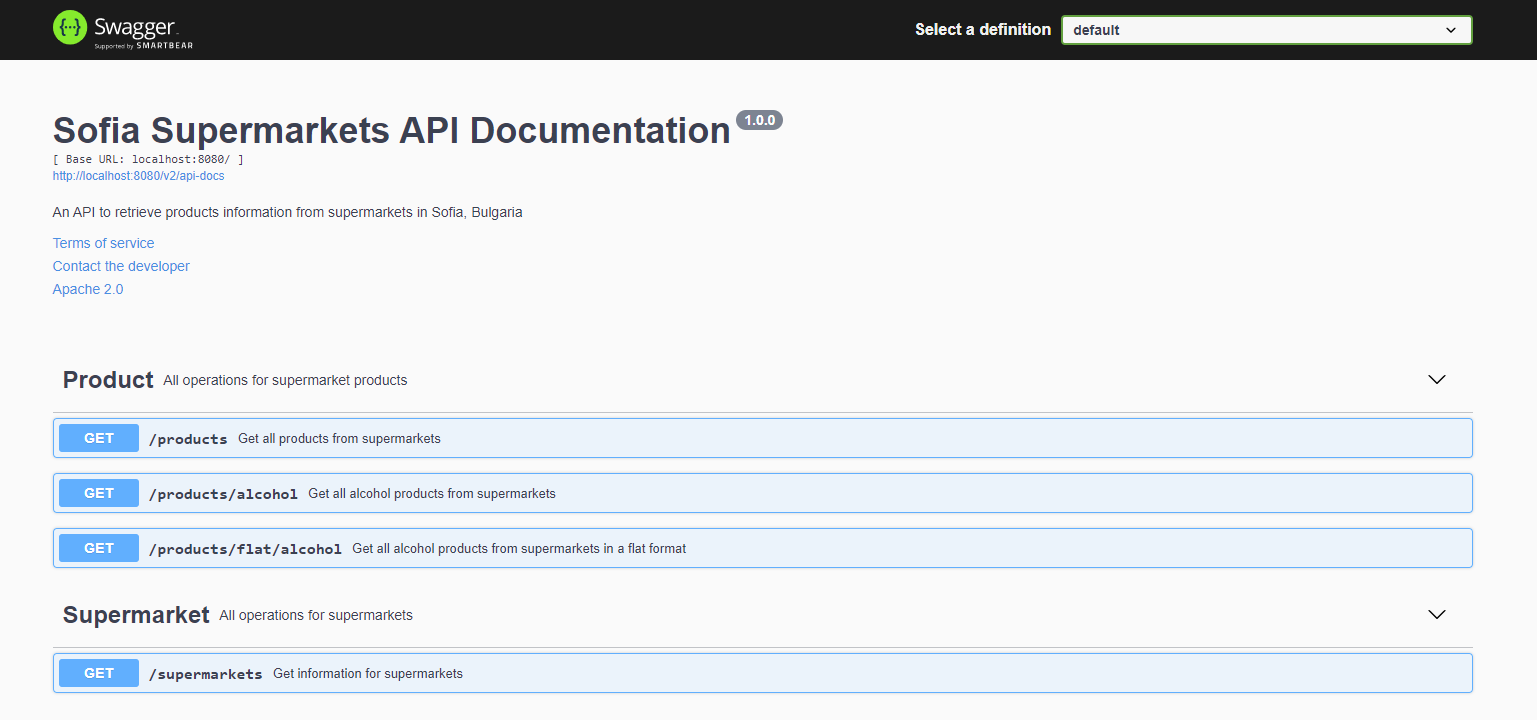
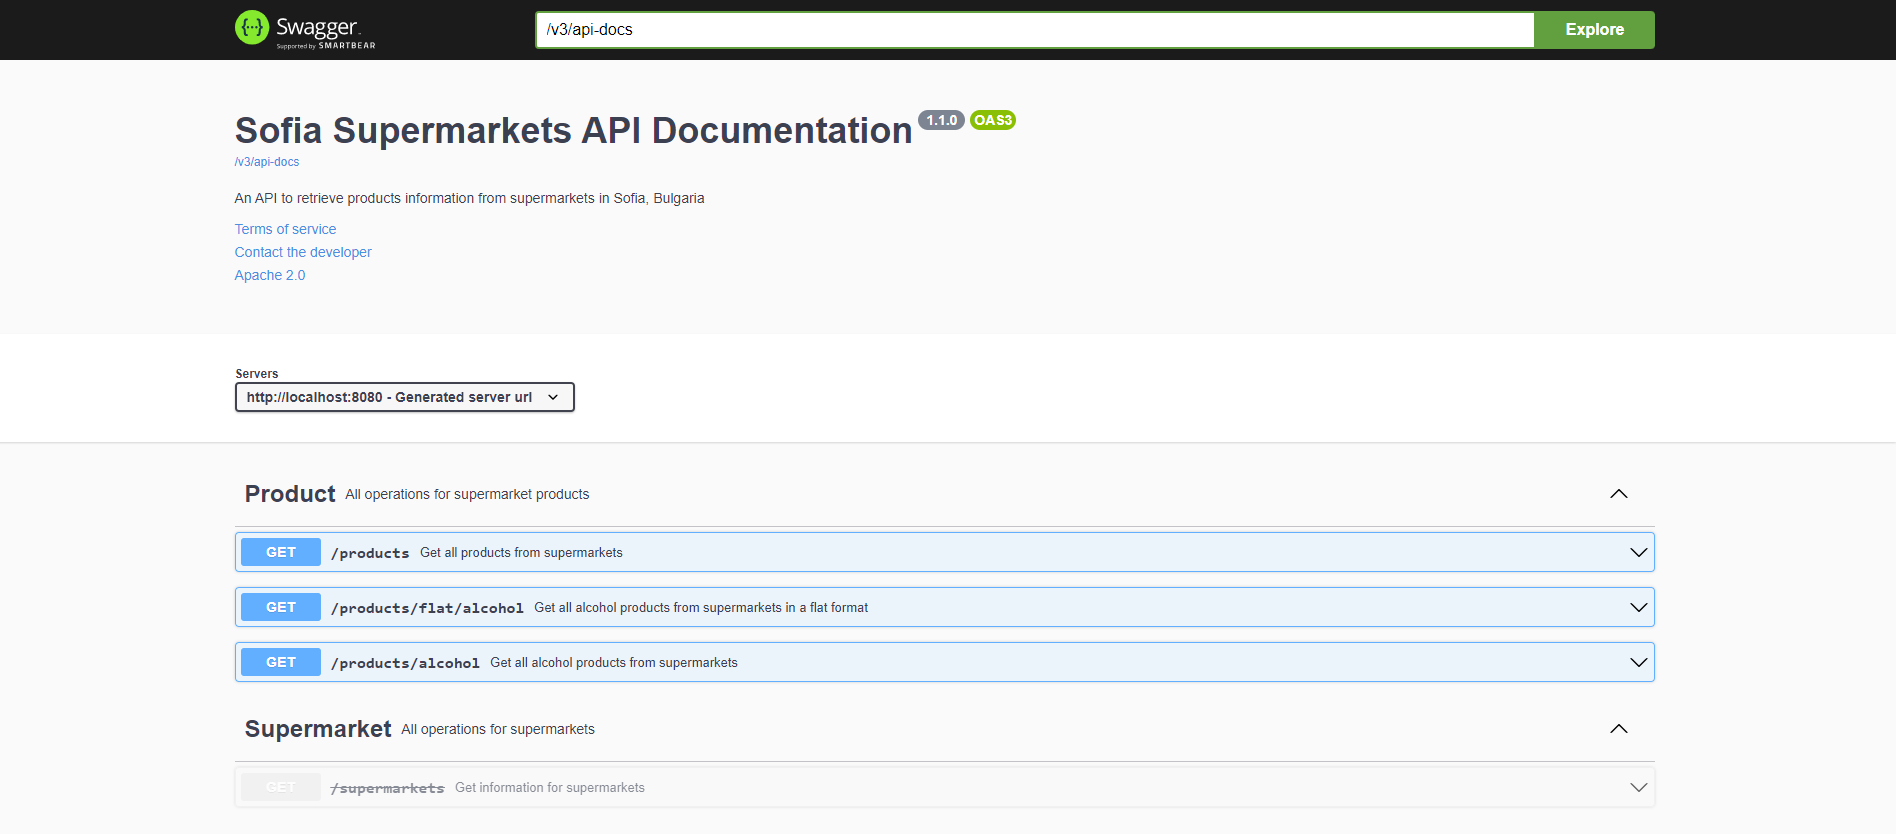
updating swagger image and url

diff --git a/README.md b/README.md
@@ -41,6 +41,6 @@ The following environment variables need to be set prior to running
 * GOOGLE_API_KEY
 * CLOUDINARY_API_SECRET
 
-Navigate to <http://localhost:8080/swagger-ui/> to check the API documentation and test the endpoints
+Navigate to <http://localhost:8080/swagger-ui.html> to check the API documentation and test the endpoints
 
 ![API Documentation](images/swagger-ui.png)
